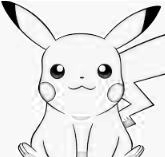
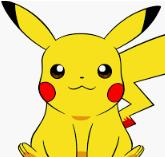
we have colors :D

diff --git a/practica1/image.c b/practica1/image.c
@@ -47,8 +47,8 @@ unsigned char new_image[img_size];
 int j =0;
 for(int i = 0; i <img_size/3; i++ ){
 	new_image[j] = (char) r[i];
-	new_image[j+1] = (char) r[i];
- 	new_image[j+2] = (char) r[i];
+	new_image[j+1] = (char) g[i];
+ 	new_image[j+2] = (char) b[i];
  	j+=3;
 }
 
